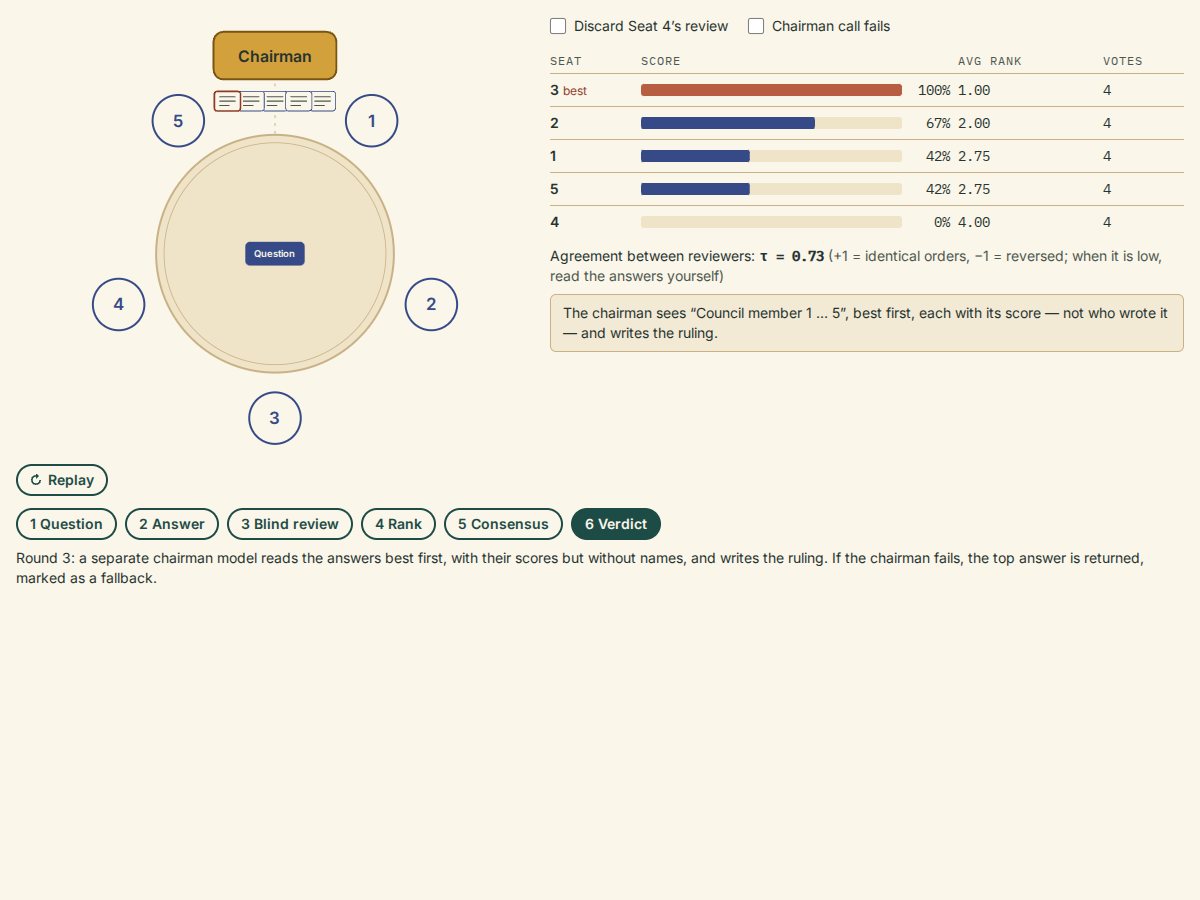
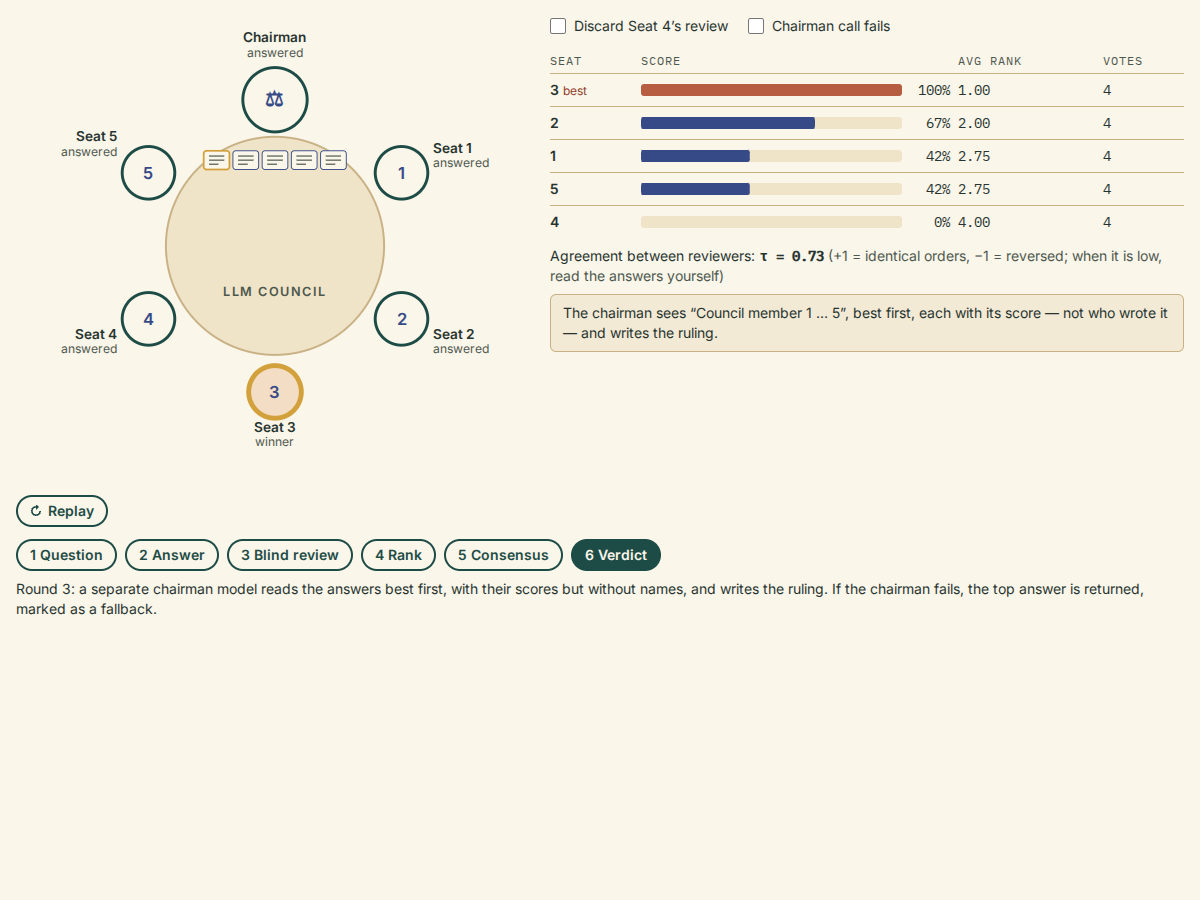
feat(explainer): council round table follows the real app's design
Chairman at the head of the ring, members around it, a live status under
each seat (thinking / reviewing / answered / failed / winner) with the app's
pulse, as in frontend/src/components/RoundTable.jsx.

Changed region(s): [[0.0, 0.5289, 0.9558, 0.6844], [0.0617, 0.0311, 0.4008, 0.4978], [0.185, 0.2489, 0.2775, 0.3422]]

diff --git a/src/explainers/council-table/index.tsx b/src/explainers/council-table/index.tsx
@@ -1,7 +1,7 @@
 import { useEffect, useMemo, useState } from 'react';
 import { StepControls } from '../shared/StepControls';
 import { PlayPause } from '../shared/PlayPause';
-import { useStepper } from '../shared/useStepper';
+import { useStepper, isPosterMode } from '../shared/useStepper';
 import type { ExplainerProps } from '../types';
 import { SEATS, BALLOT_ORDER, LETTERS, LETTER_RANKING, runSession, type Seat } from './model';
 
@@ -33,15 +33,27 @@ const STEPS = [
   },
 ];
 
-const C = { x: 210, y: 240 };
-const CHAIR = { x: 210, y: 40 };
-const polar = (deg: number, r: number) => {
-  const a = (deg * Math.PI) / 180;
-  return { x: C.x + r * Math.cos(a), y: C.y + r * Math.sin(a) };
+// Same layout as the real app (frontend/src/components/RoundTable.jsx): the chairman at the head of the
+// table (top), the members round the ring, a live status under every seat.
+const SIZE = 460;
+const C = { x: SIZE / 2, y: 236 };
+const RING = 150;
+const slot = (k: number, r = RING) => {
+  const a = ((-90 + 60 * k) * Math.PI) / 180;
+  return { x: C.x + r * Math.cos(a), y: C.y + r * Math.sin(a), cos: Math.cos(a), sin: Math.sin(a) };
 };
-const ANGLES = [-54, 18, 90, 162, 234];
-const seatPos = (i: number) => polar(ANGLES[i]!, 166);
-const cardPos = (i: number) => polar(ANGLES[i]!, 84);
+const seatPos = (i: number) => slot(i + 1);
+const cardPos = (i: number) => slot(i + 1, 74);
+const CHAIR = slot(0);
+type Status = 'waiting' | 'thinking' | 'reviewing' | 'answered' | 'failed' | 'winner';
+const RING_STYLE: Record<Status, { stroke: string; width: number; dash?: string; fill: string; pulse?: boolean }> = {
+  waiting: { stroke: '#c9b186', width: 2.5, fill: '#fbf6ea' },
+  thinking: { stroke: '#354a87', width: 3, fill: '#fbf6ea', pulse: true },
+  reviewing: { stroke: '#354a87', width: 3, fill: '#fbf6ea', pulse: true },
+  answered: { stroke: '#1d4b45', width: 3, fill: '#fbf6ea' },
+  failed: { stroke: '#8e3b26', width: 3, dash: '5 4', fill: '#fbf6ea' },
+  winner: { stroke: '#d3a13c', width: 5, fill: '#f3ddc4' },
+};
 const pct = (x: number | null) => (x === null ? '—' : `${Math.round(x * 100)}%`);
 
 export default function CouncilTable({ onReady }: ExplainerProps) {
@@ -55,8 +67,26 @@ export default function CouncilTable({ onReady }: ExplainerProps) {
     () => runSession({ unparseable: unparseable ? 'Seat 4' : null, chairmanFails: chairFails }),
     [unparseable, chairFails],
   );
+  // Live feel, as in the app: on entering round 1 or 3 the seats "think" for a moment before answering.
+  const reduced = typeof matchMedia !== 'undefined' && matchMedia('(prefers-reduced-motion: reduce)').matches;
+  const [answering, setAnswering] = useState(false);
+  useEffect(() => {
+    if (reduced || isPosterMode() || (step !== 1 && step !== 5)) return setAnswering(false);
+    setAnswering(true);
+    const t = setTimeout(() => setAnswering(false), 1300);
+    return () => clearTimeout(t);
+  }, [step, reduced]);
   const order = session.leaderboard.map((e) => e.model);
   const ballot = BALLOT_ORDER[viewer];
+  const statusOf = (s: Seat): Status => {
+    if (step === 0) return 'waiting';
+    if (step === 1) return answering ? 'thinking' : 'answered';
+    if (step === 2) return 'reviewing';
+    if (unparseable && s === 'Seat 4') return 'failed';
+    if (step >= 4 && s === session.winner) return 'winner';
+    return 'answered';
+  };
+  const chairStatus: Status = step < 5 ? 'waiting' : answering ? 'thinking' : chairFails ? 'failed' : 'answered';
   const letterFor = (s: Seat) => (ballot.includes(s) ? LETTERS[ballot.indexOf(s)]! : null);
 
   return (
@@ -67,32 +97,13 @@ export default function CouncilTable({ onReady }: ExplainerProps) {
     >
       <div className="grid gap-4 md:grid-cols-[minmax(0,0.9fr)_minmax(0,1.1fr)] md:items-start">
         {/* The round table */}
-        <svg viewBox="0 0 420 440" className="mx-auto h-auto w-full max-w-[26rem]" aria-hidden="true">
-          {/* chairman */}
-          <g className="ex-fade" style={{ opacity: step === 5 ? 1 : 0.45 }}>
-            <line x1={CHAIR.x} y1={CHAIR.y + 28} x2={C.x} y2={C.y - 120} stroke="#c9b186" strokeDasharray="3 5" />
-            <rect
-              x={CHAIR.x - 62}
-              y={CHAIR.y - 24}
-              width={124}
-              height={48}
-              rx={10}
-              fill={step === 5 ? (chairFails ? '#efe3c8' : '#d3a13c') : '#efe3c8'}
-              stroke={chairFails && step === 5 ? '#8e3b26' : '#7a5410'}
-              strokeWidth={2}
-              strokeDasharray={chairFails && step === 5 ? '6 4' : undefined}
-              style={{ transition: 'fill 300ms var(--ease-out)' }}
-            />
-            <text x={CHAIR.x} y={CHAIR.y + 6} textAnchor="middle" fontSize="16" fontWeight={700} fill="#26332e">
-              Chairman
-            </text>
-          </g>
+        <svg viewBox={`0 0 ${SIZE} 480`} className="mx-auto h-auto w-full max-w-[28rem]" aria-hidden="true">
+          <circle cx={C.x} cy={C.y} r={RING - 38} fill="#efe3c8" stroke="#c9b186" strokeWidth={2} />
+          <text x={C.x} y={C.y + 52} textAnchor="middle" fontSize="13" fontWeight={600} fill="#4c574d" letterSpacing="1.5">
+            LLM COUNCIL
+          </text>
 
-          {/* table */}
-          <circle cx={C.x} cy={C.y} r={120} fill="#efe3c8" stroke="#c9b186" strokeWidth={2} />
-          <circle cx={C.x} cy={C.y} r={112} fill="none" stroke="#c9b186" strokeWidth={0.8} />
-
-          {/* question → seats */}
+          {/* question → members */}
           {SEATS.map((_, i) => {
             const p = seatPos(i);
             return (
@@ -114,7 +125,8 @@ export default function CouncilTable({ onReady }: ExplainerProps) {
             style={{
               transformBox: 'view-box',
               transformOrigin: `${C.x}px ${C.y}px`,
-              transform: `scale(${step === 0 ? 1 : 0.6})`,
+              transform: `scale(${step === 0 ? 1 : 0.62})`,
+              opacity: step === 5 ? 0 : 1,
             }}
           >
             <rect x={C.x - 50} y={C.y - 20} width={100} height={40} rx={8} fill="#354a87" />
@@ -123,12 +135,12 @@ export default function CouncilTable({ onReady }: ExplainerProps) {
             </text>
           </g>
 
-          {/* answer cards: appear in round 1, take letters in round 2, travel to the chairman in round 3 (best first) */}
+          {/* answer cards: written in round 1, lettered in round 2, carried to the chairman (best first) in round 3 */}
           {SEATS.map((s, i) => {
             const p = cardPos(i);
             const rank = order.indexOf(s);
             const atChair = step === 5;
-            const target = { x: CHAIR.x - 48 + rank * 24, y: CHAIR.y + 46 };
+            const target = { x: C.x - 60 + rank * 30, y: CHAIR.y + 62 };
             const own = step === 2 && s === viewer;
             const letter = step === 2 ? letterFor(s) : null;
             const winner = step >= 4 && s === session.winner;
@@ -137,26 +149,26 @@ export default function CouncilTable({ onReady }: ExplainerProps) {
                 key={s}
                 className="ex-move"
                 style={{
-                  opacity: step === 0 ? 0 : own ? 0.35 : 1,
-                  transform: atChair ? `translate(${target.x - p.x}px, ${target.y - p.y}px) scale(0.55)` : 'none',
+                  opacity: step === 0 || (step === 1 && answering) ? 0 : own ? 0.35 : 1,
+                  transform: atChair ? `translate(${target.x - p.x}px, ${target.y - p.y}px) scale(0.6)` : 'none',
                   transformBox: 'fill-box',
                   transformOrigin: 'center',
-                  transitionDelay: atChair ? `${rank * 90}ms` : `${i * 60}ms`,
+                  transitionDelay: atChair ? `${rank * 110}ms` : `${i * 70}ms`,
                 }}
               >
                 <rect
-                  x={p.x - 24}
-                  y={p.y - 18}
-                  width={48}
-                  height={36}
+                  x={p.x - 22}
+                  y={p.y - 16}
+                  width={44}
+                  height={32}
                   rx={5}
                   fill="#fbf6ea"
-                  stroke={winner ? '#8e3b26' : '#354a87'}
+                  stroke={winner ? '#d3a13c' : '#354a87'}
                   strokeWidth={winner ? 3 : 1.6}
                   strokeDasharray={own ? '4 3' : undefined}
                 />
                 {letter ? (
-                  <text x={p.x} y={p.y + 7} textAnchor="middle" fontSize="20" fontWeight={700} fill="#354a87">
+                  <text x={p.x} y={p.y + 7} textAnchor="middle" fontSize="19" fontWeight={700} fill="#354a87">
                     {letter}
                   </text>
                 ) : own ? (
@@ -167,10 +179,10 @@ export default function CouncilTable({ onReady }: ExplainerProps) {
                   [0, 1, 2].map((k) => (
                     <line
                       key={k}
-                      x1={p.x - 15}
-                      x2={p.x + (k === 2 ? 4 : 15)}
-                      y1={p.y - 8 + k * 8}
-                      y2={p.y - 8 + k * 8}
+                      x1={p.x - 13}
+                      x2={p.x + (k === 2 ? 3 : 13)}
+                      y1={p.y - 7 + k * 7}
+                      y2={p.y - 7 + k * 7}
                       stroke="#4c574d"
                       strokeWidth={2}
                     />
@@ -180,32 +192,52 @@ export default function CouncilTable({ onReady }: ExplainerProps) {
             );
           })}
 
-          {/* seats */}
-          {SEATS.map((s, i) => {
-            const p = seatPos(i);
-            const isViewer = step === 2 && s === viewer;
-            const reviewDropped = step >= 3 && unparseable && s === 'Seat 4';
+          {/* seats: chairman at the head, members round the ring, status under each name */}
+          {[
+            { key: 'chair', pos: CHAIR, glyph: '⚖', name: 'Chairman', st: chairStatus, large: true },
+            ...SEATS.map((s, i) => ({ key: s, pos: seatPos(i), glyph: String(i + 1), name: s, st: statusOf(s), large: false })),
+          ].map(({ key, pos, glyph, name, st, large }) => {
+            const r = large ? 33 : 27;
+            const look = RING_STYLE[st];
+            const lx = pos.x + pos.cos * (r + 10);
+            const ly = pos.y + pos.sin * (r + 14);
+            const anchor = Math.abs(pos.cos) < 0.3 ? 'middle' : pos.cos > 0 ? 'start' : 'end';
+            const above = pos.sin < -0.5;
+            const isViewer = step === 2 && key === viewer;
             return (
-              <g key={s}>
+              <g key={key}>
                 <circle
-                  cx={p.x}
-                  cy={p.y}
-                  r={26}
-                  strokeDasharray={reviewDropped ? '5 4' : undefined}
-                  fill={isViewer ? '#354a87' : '#fbf6ea'}
-                  stroke="#354a87"
-                  strokeWidth={2}
-                  style={{ transition: 'fill 200ms var(--ease-out)' }}
+                  cx={pos.x}
+                  cy={pos.y}
+                  r={r}
+                  fill={isViewer ? '#354a87' : look.fill}
+                  stroke={look.stroke}
+                  strokeWidth={look.width}
+                  strokeDasharray={look.dash}
+                  className={look.pulse ? 'ex-pulse' : undefined}
+                  style={{ transition: 'stroke 300ms var(--ease-out), fill 300ms var(--ease-out)' }}
                 />
                 <text
-                  x={p.x}
-                  y={p.y + 6}
+                  x={pos.x}
+                  y={pos.y + 6}
                   textAnchor="middle"
-                  fontSize="17"
+                  fontSize={large ? 22 : 17}
                   fontWeight={700}
                   fill={isViewer ? '#fbf6ea' : '#354a87'}
                 >
-                  {i + 1}
+                  {glyph}
+                </text>
+                <text x={lx} y={ly + (above ? -12 : 0)} textAnchor={anchor} fontSize="14" fontWeight={600} fill="#26332e">
+                  {name}
+                </text>
+                <text
+                  x={lx}
+                  y={ly + (above ? 3 : 15)}
+                  textAnchor={anchor}
+                  fontSize="12.5"
+                  fill={st === 'failed' ? '#8e3b26' : '#4c574d'}
+                >
+                  {st}
                 </text>
               </g>
             );

diff --git a/src/styles/global.css b/src/styles/global.css
@@ -569,3 +569,21 @@ button[class*='rounded-chip'] {
 .tab-hidden * {
   animation-play-state: paused !important;
 }
+
+/* Council seats "thinking" / "reviewing" — the same pulse as the LLM Council app. Stops when paused or reduced. */
+@keyframes ex-pulse {
+  50% {
+    stroke-opacity: 0.35;
+  }
+}
+.ex-pulse {
+  animation: ex-pulse 1.2s ease-in-out infinite;
+}
+[data-paused] .ex-pulse {
+  animation-play-state: paused;
+}
+@media (prefers-reduced-motion: reduce) {
+  .ex-pulse {
+    animation: none;
+  }
+}

diff --git a/src/explainers/council-table/README.md b/src/explainers/council-table/README.md
@@ -10,6 +10,12 @@ Data provenance: (b) toy data — five anonymous seats, hand-written ballot orde
 letter rankings (`LETTER_RANKING`) in `model.ts`. Labelled "Illustrative example". No real model names, so
 no real model is shown winning or losing.
 
+## Visual source
+Layout and seat states follow the project's own interface, `frontend/src/components/RoundTable.jsx` and
+`App.css`: chairman at the head of the table, members round the ring, a status line under every seat
+(waiting · thinking · reviewing · answered · failed · winner), pulsing ring while thinking/reviewing, dashed when
+failed, gold when winner. Colours are the site palette, not the app's.
+
 ## Simplifications (also in "How to read this")
 - Answers are blank cards; the question is generic.
 - Member failures and retries (README failure table) are not drawn; only the unparseable-review and
